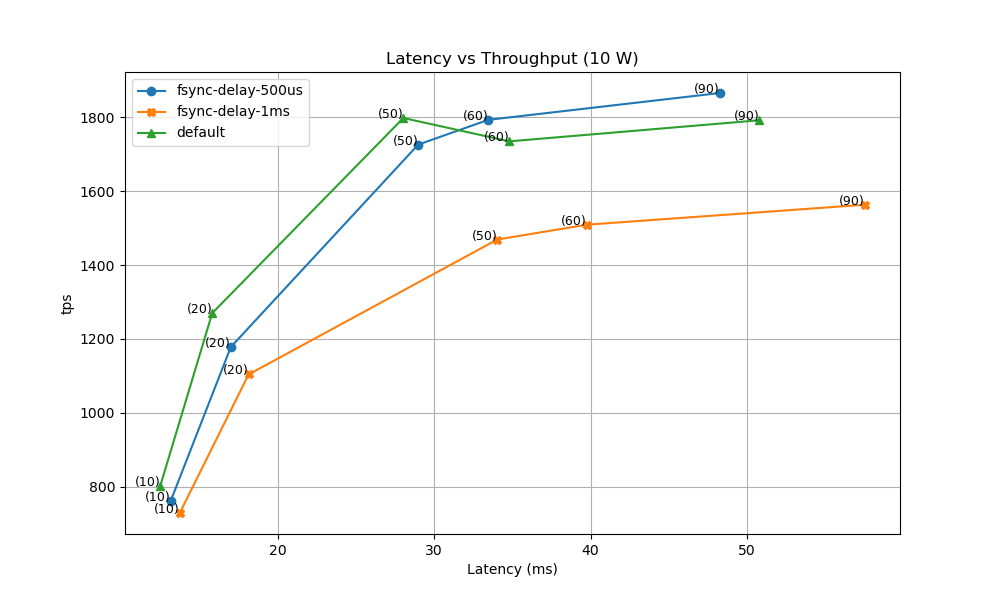
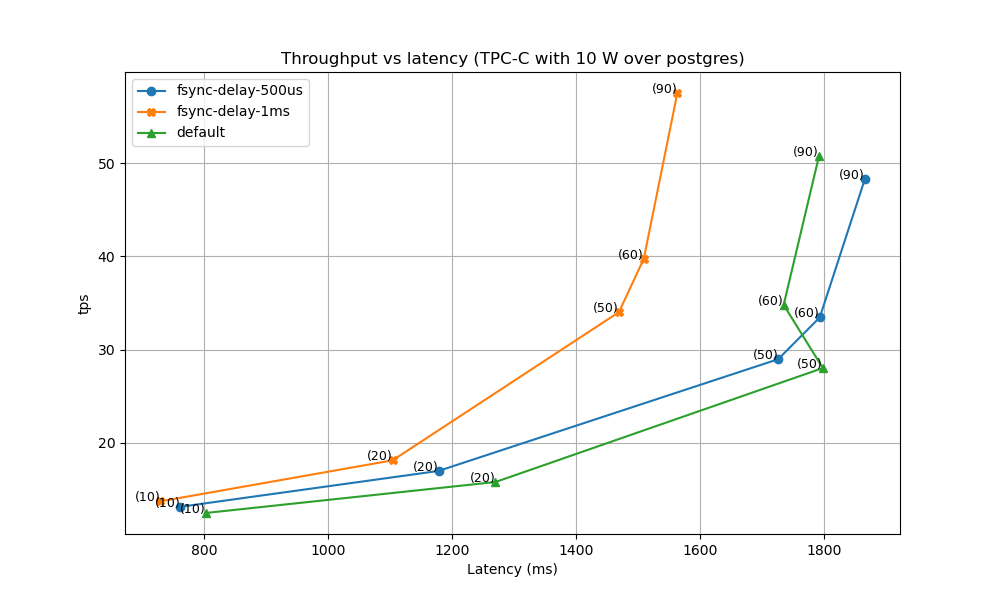
.

diff --git a/postgres-with-zfs-on-docker-25-02-2025-remote-client/lat-throughput.py b/postgres-with-zfs-on-docker-25-02-2025-remote-client/lat-throughput.py
@@ -73,23 +73,23 @@ clients = [
 # Create a plot
 plt.figure(figsize=(10, 6))
 #plt.errorbar(latency, throughput, xerr=latency_error, yerr=throughput_error, fmt='o', ecolor='r', capsize=5)
-plt.plot(latency_500us, throughput_500us, marker='o', label="fsync-delay-500us")
-plt.plot(latency_1ms, throughput_1ms, marker='X', label="fsync-delay-1ms")
-plt.plot(latency_default, throughput_default, marker='^', label="default")
+plt.plot(throughput_500us, latency_500us,  marker='o', label="fsync-delay-500us")
+plt.plot(throughput_1ms, latency_1ms, marker='X', label="fsync-delay-1ms")
+plt.plot( throughput_default, latency_default, marker='^', label="default")
 
 
 # Add text on top of the data points
 for i in range(len(latency_500us)):
-    plt.text(latency_500us[i], throughput_500us[i], f'({clients[i]})', fontsize=9, ha='right')
+    plt.text(throughput_500us[i], latency_500us[i], f'({clients[i]})', fontsize=9, ha='right')
 
 for i in range(len(latency_1ms)):
-    plt.text(latency_1ms[i], throughput_1ms[i], f'({clients[i]})', fontsize=9, ha='right')
+    plt.text(throughput_1ms[i],latency_1ms[i],  f'({clients[i]})', fontsize=9, ha='right')
 
 for i in range(len(latency_default)):
-    plt.text(latency_default[i], throughput_default[i], f'({clients[i]})', fontsize=9, ha='right')
+    plt.text( throughput_default[i], latency_default[i], f'({clients[i]})', fontsize=9, ha='right')
 
 # Add title and labels
-plt.title('Latency vs Throughput (10 W)')
+plt.title('Throughput vs latency (TPC-C with 10 W over postgres)')
 plt.xlabel('Latency (ms)')
 plt.ylabel('tps')
 
